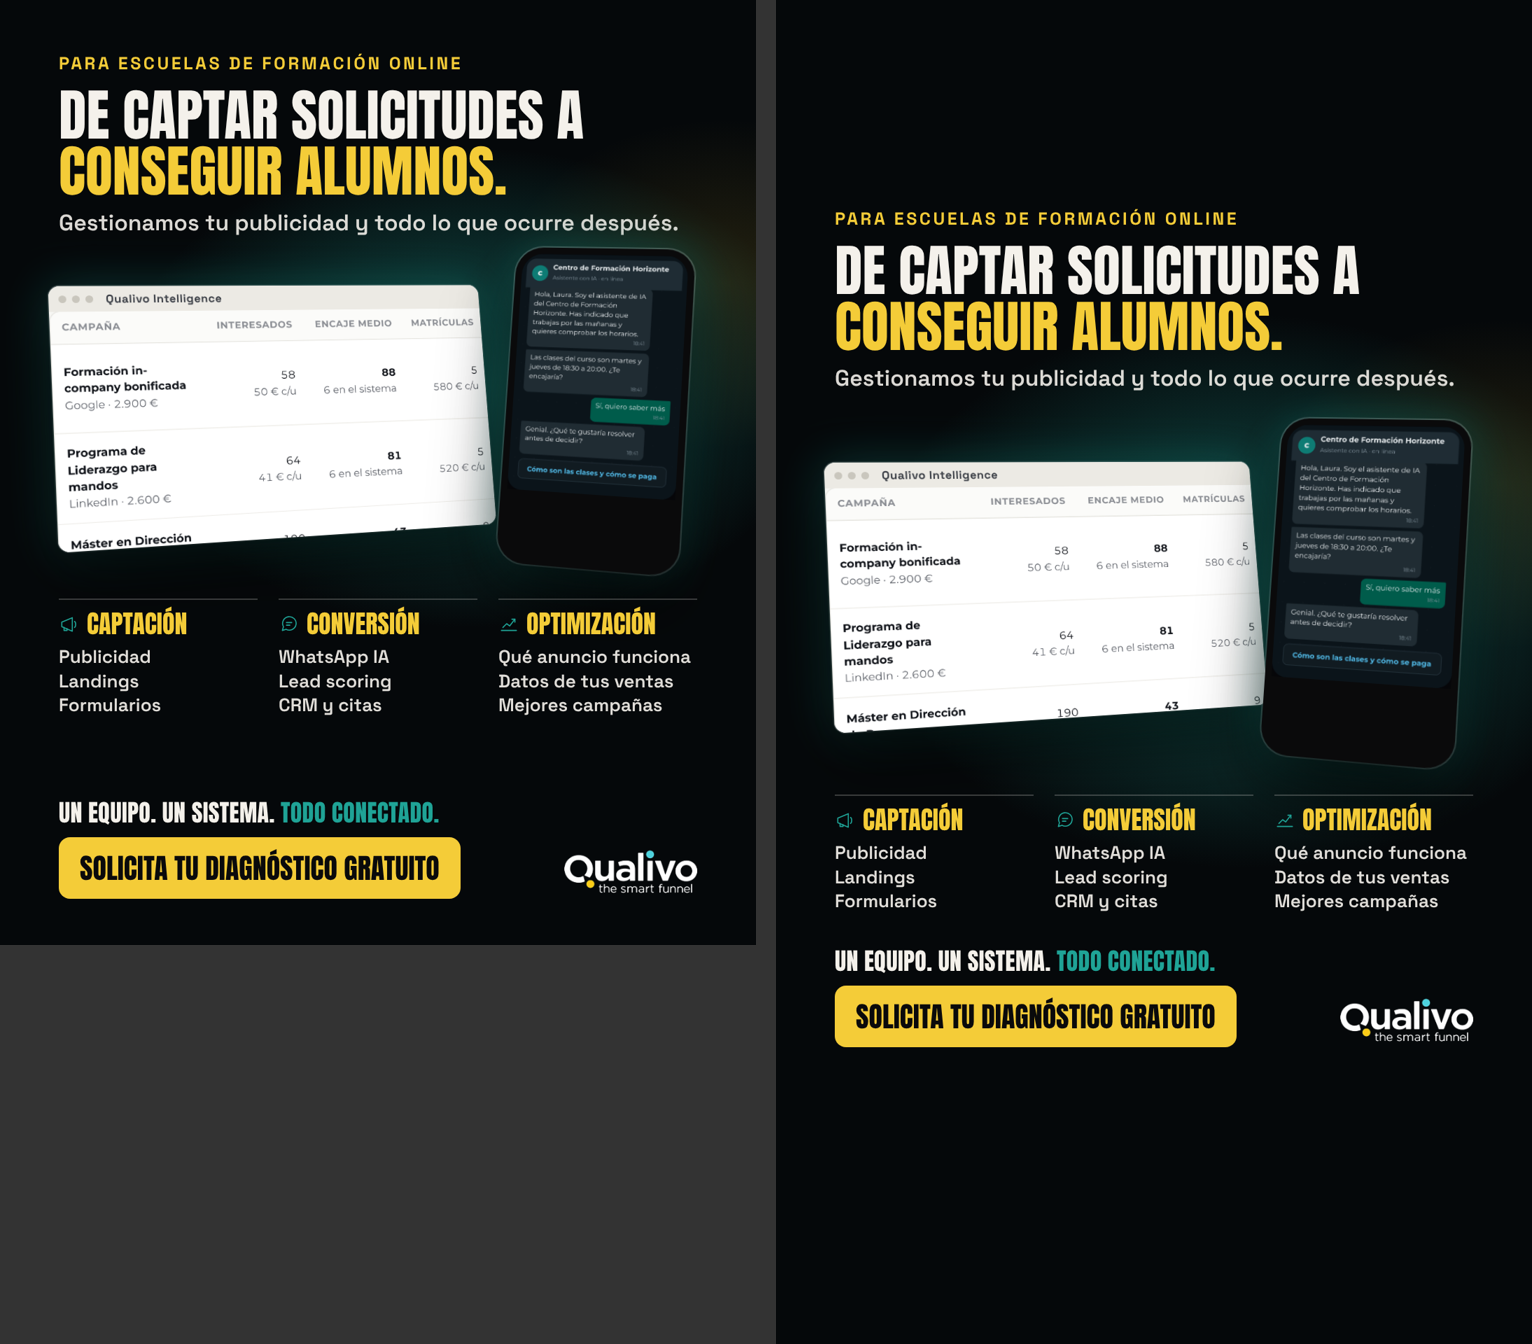
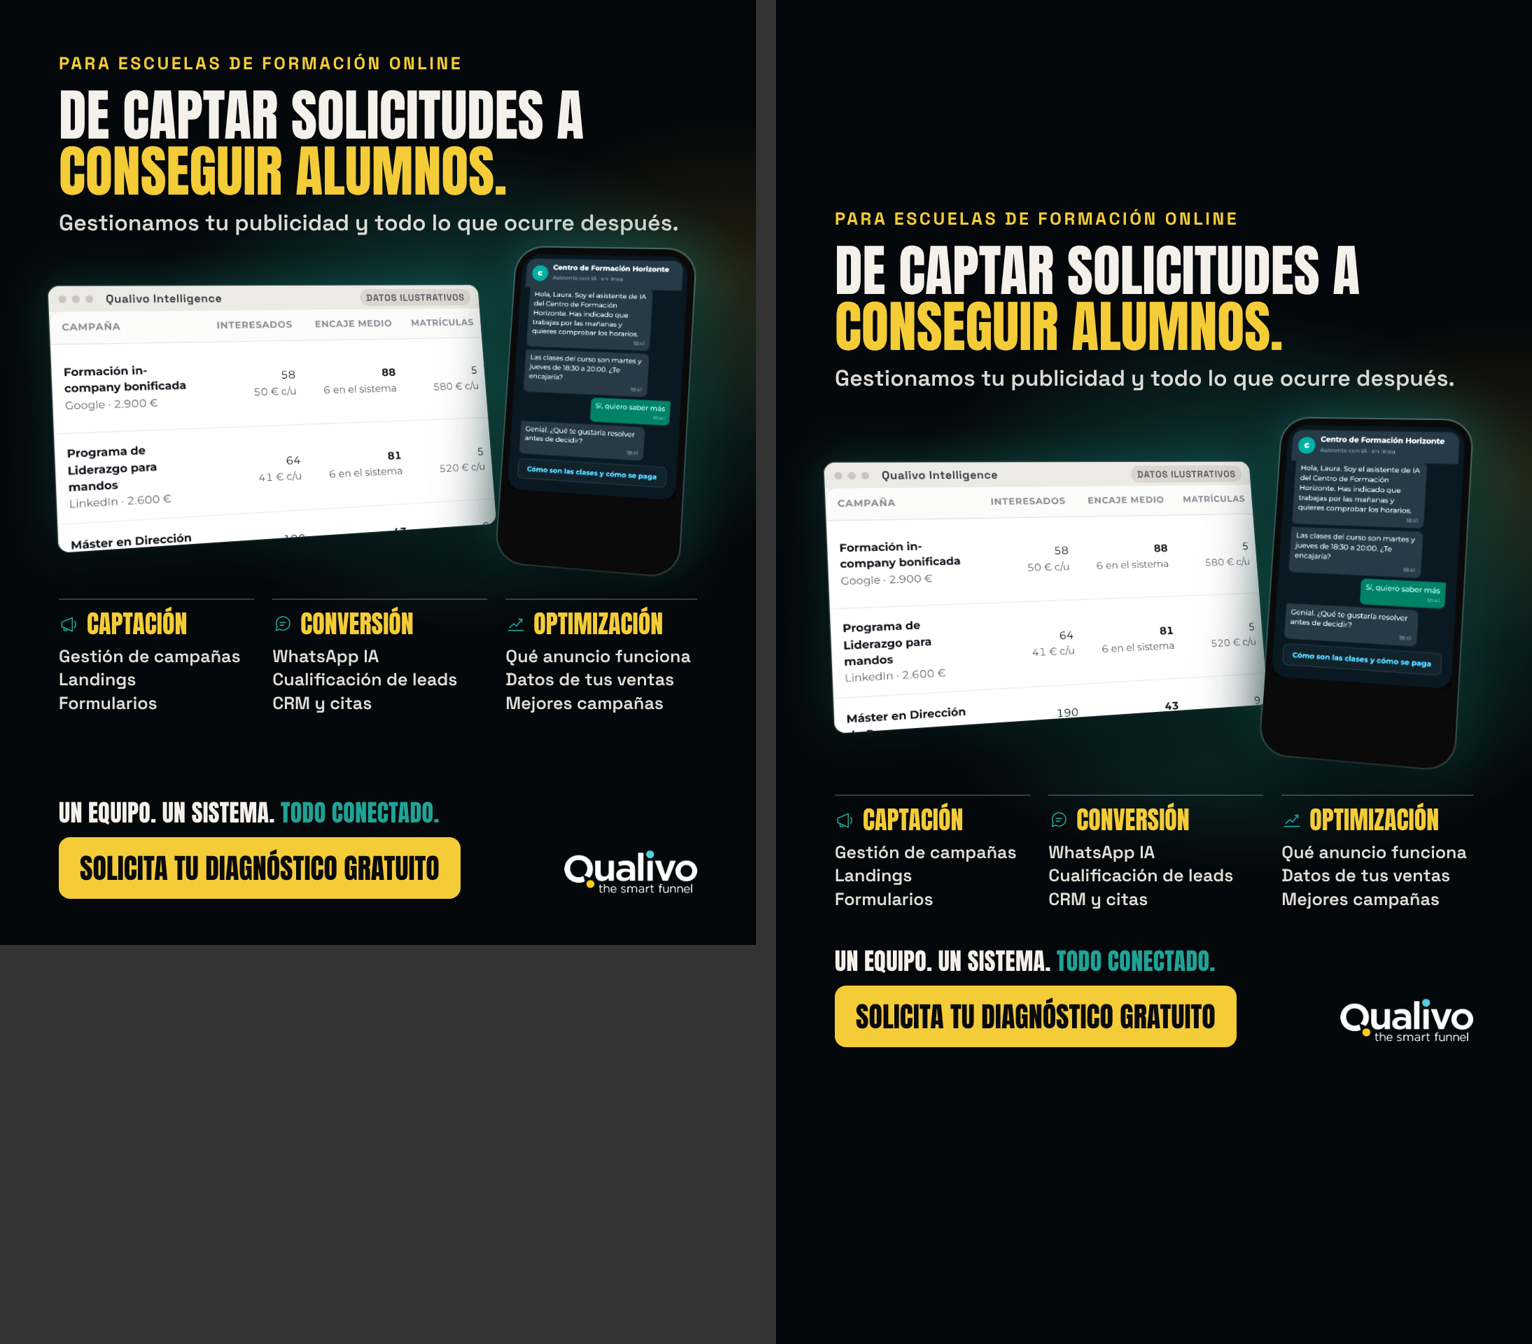
Sistema completo: cuatro ajustes finales (textos, WhatsApp más luminoso, etiqueta de datos ilustrativos) y fotogramas de la demo corta
Claude-Session: https://claude.ai/code/session_01MkLw18JtVaTcJ5wUw6JLih

diff --git a/content/anuncios/2026-11-24-bateria-formacion/final.html b/content/anuncios/2026-11-24-bateria-formacion/final.html
@@ -31,14 +31,19 @@ h1{font-family:Anton;font-weight:400;font-size:80px;line-height:1;text-transform
 .pie{margin-top:18px;display:flex;align-items:center;justify-content:space-between}
 .cta{font-family:Anton;font-size:40px;line-height:1;text-transform:uppercase;padding:24px 30px;border-radius:16px;background:#F4CC38;color:#0A0A0B}
 .lg{width:190px}
+
+.col{grid-template-columns:1fr 1.1fr .98fr;column-gap:26px}.col p{font-size:25px}
+.win .bar u{margin-left:auto;text-decoration:none;font-size:15px;font-weight:700;letter-spacing:.06em;text-transform:uppercase;color:#5A5D63;background:#DAD7CF;padding:4px 10px;border-radius:999px}
+.tel img{filter:brightness(1.38) contrast(1.04) saturate(1.1)}
+.tel{box-shadow:0 46px 90px rgba(0,0,0,.7),0 0 70px rgba(31,163,150,.42),0 0 0 2px rgba(255,255,255,.3)}
 </style></head><body><div id="e">
  <div class="id">Para escuelas de formación online</div>
  <h1>De captar solicitudes a <em>conseguir alumnos.</em></h1>
  <div class="sub">Gestionamos tu publicidad y todo lo que ocurre después.</div>
- <div class="esc"><div class="win"><div class="bar"><i></i><i></i><i></i><b>Qualivo Intelligence</b></div><img src="cap/campanas-sin-retorno.png"></div><div class="tel"><div><img src="cap/whatsapp.png"></div></div></div>
+ <div class="esc"><div class="win"><div class="bar"><i></i><i></i><i></i><b>Qualivo Intelligence</b><u>Datos ilustrativos</u></div><img src="cap/campanas-sin-retorno.png"></div><div class="tel"><div><img src="cap/whatsapp.png"></div></div></div>
  <div class="col">
-  <div><h2><svg viewBox="0 0 56 56"><path d="M8 36V24l28-12v36L8 36z"/><path d="M14 38v8h8v-5"/><path d="M42 22c4 2 4 14 0 16"/></svg>Captación</h2><p>Publicidad<br>Landings<br>Formularios</p></div>
-  <div><h2><svg viewBox="0 0 56 56"><path d="M10 46l3-10a18 18 0 1 1 7 7z"/><path d="M21 25h14M21 32h9"/></svg>Conversión</h2><p>WhatsApp IA<br>Lead scoring<br>CRM y citas</p></div>
+  <div><h2><svg viewBox="0 0 56 56"><path d="M8 36V24l28-12v36L8 36z"/><path d="M14 38v8h8v-5"/><path d="M42 22c4 2 4 14 0 16"/></svg>Captación</h2><p>Gestión de campañas<br>Landings<br>Formularios</p></div>
+  <div><h2><svg viewBox="0 0 56 56"><path d="M10 46l3-10a18 18 0 1 1 7 7z"/><path d="M21 25h14M21 32h9"/></svg>Conversión</h2><p>WhatsApp IA<br>Cualificación de leads<br>CRM y citas</p></div>
   <div><h2><svg viewBox="0 0 56 56"><path d="M8 46h40"/><path d="M12 38l10-10 8 6 14-18"/><path d="M36 16h8v8"/></svg>Optimización</h2><p>Qué anuncio funciona<br>Datos de tus ventas<br>Mejores campañas</p></div>
  </div>
  <div class="cie">Un equipo. Un sistema. <em>Todo conectado.</em></div>
